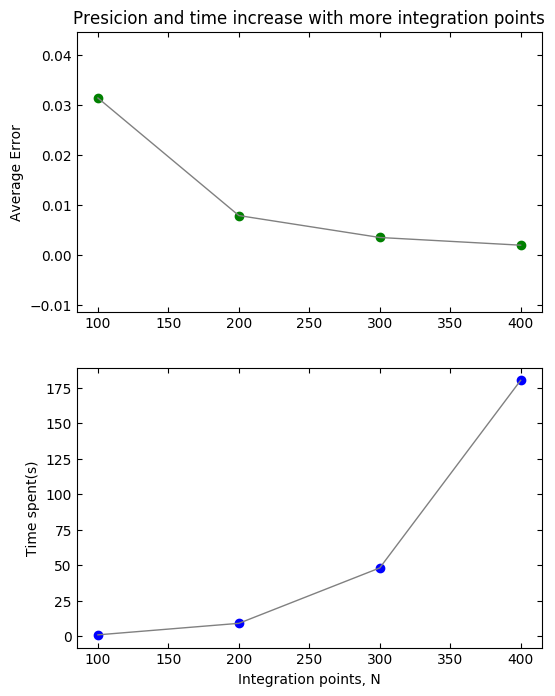
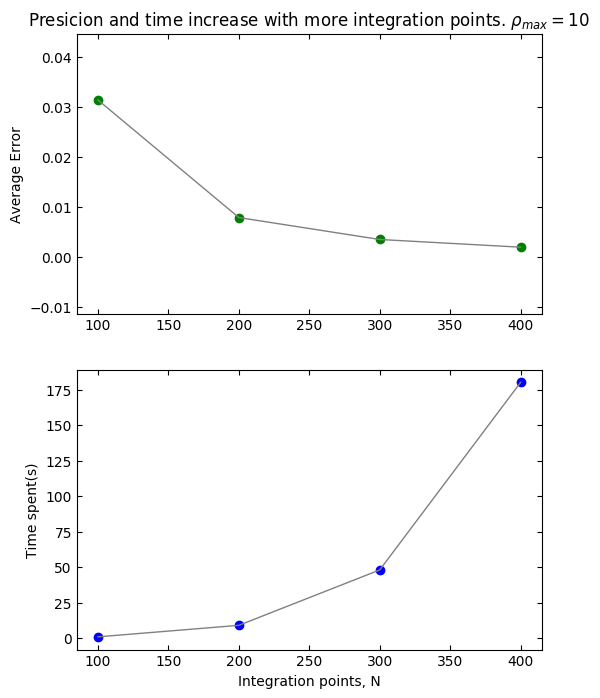
Read readme for how to use code. main.cpp is for testing different N and main_rho.cpp is for testing different approximations of infinity.

diff --git a/Code/main_rho.cpp b/Code/main_rho.cpp
@@ -1,0 +1,90 @@
+#include <armadillo>
+#include <cmath>
+#include <iostream>
+#include <fstream>
+
+using namespace std;
+using namespace arma;
+
+mat init(double Rho_N, int N);                //Takes Rho_N (approx infty) and integrations points N, returns tridiag mat.
+mat Jacobi_method(mat A, int N);              //Takes matrix to find eigvals and N, returns vector with eigvals.
+vec arma_eig(mat A);                          //Armadillos function for finding Eigenvalues, returns vector with eigvals.
+double averageError(vec jacobi_eigenvalues);  //Calculating average error of the four first eigenvalues
+void consoleout(int N, vec arma_eigenvalues, vec jacobi_eigenvalues, double t_arma, double t_jacobi, double Rho_N);
+
+ofstream ofile;
+
+int main() {
+  int i = 0;
+
+  //Writing to file for plotting
+  string filename = "Rho-VS-Error";
+  ofile.open(filename);
+
+  for (i = 3; i < 12; i++){
+
+    double Rho_N = i*1.0;                //Defining the approximation of infinity
+    int N = 200;                      //Defining number of integration points
+
+    mat A = init(Rho_N, N);             //Defining tridiagonal matrix
+
+    //Timing armadillo's eigenvalue solver
+    clock_t t0, t1;
+    t0 = clock();
+    vec arma_eigvals = arma_eig(A);     //Defining armadillos eigenvalues
+    t1 = clock();
+    double t_arma = (double (t1 - t0))/CLOCKS_PER_SEC;
+
+    //Timing jacobi's eigenvalue solver
+    t0 = clock();
+    vec eigvals = Jacobi_method(A,N);   //Defining jacobi's eigenvalues
+    t1 = clock();
+    double t_jacobi = (double (t1 - t0))/CLOCKS_PER_SEC;
+
+    eigvals = sort(eigvals);                                  //Sorting eigenvalues from Jacobi's method
+    int eigval;
+    vec arma_eigenvalues(4); vec jacobi_eigenvalues(4);       //Declaring vectors for the four first elements
+
+    for (eigval = 0 ; eigval < 4; eigval++){                  //Filling the vectors with the eigenvalues
+      arma_eigenvalues(eigval) = arma_eigvals(eigval);
+      jacobi_eigenvalues(eigval) = eigvals(eigval);
+    }
+
+    //Printing to console
+    consoleout(N, arma_eigenvalues, jacobi_eigenvalues, t_arma, t_jacobi, Rho_N);
+
+    //Writing N as X-value and average error to Y-value for python plotting with plotter.py
+    ofile << Rho_N << " " << averageError(jacobi_eigenvalues) << " " << t_jacobi << endl;
+
+  }
+
+  ofile.close();
+
+  //Calling python for plotting
+  system("python3 plotter_rho.py Rho-VS-Error");
+
+  return 0;
+}
+
+double averageError(vec jacobi_eigenvalues) { //Calculates the average of the error for the first four eigenvalues.
+  vec correctAnswer = {3.0, 7.0, 11.0, 15.0};
+  vec diff = abs(correctAnswer-jacobi_eigenvalues);
+  double avgDiff = accu(diff) / diff.n_elem;
+  return avgDiff;
+}
+
+
+
+void consoleout(int N, vec arma_eigenvalues, vec jacobi_eigenvalues, double t_arma, double t_jacobi, double Rho_N) {
+  //Printing to console
+  cout << "Integration points, N: " << N << endl;
+  cout << "Rho/infinity value used: " << Rho_N << endl;
+  cout << "Eigenvalues from arma solver: " << endl;
+  cout << arma_eigenvalues << endl;
+  cout << "Time spent on arma solver: " << t_arma << "s" << endl;
+  cout << "-----------------------------------" << endl;
+  cout << "Eigenvalues from our Jacobi solver: " << endl;
+  cout << jacobi_eigenvalues << endl;
+  cout << "Time spent on our solver: " << t_jacobi << "s" << endl;
+  cout << "===================================" << endl;
+}

diff --git a/Code/plotter_rho.py b/Code/plotter_rho.py
@@ -1,0 +1,39 @@
+import matplotlib.pyplot as plt
+import numpy as np
+import sys
+
+f = open(sys.argv[1],"r")
+lines=f.readlines()
+x = np.zeros(len(lines))
+y = np.zeros_like(x)
+y1 = np.zeros_like(x)
+i=0
+for line in lines:
+    x[i] = float(line.split()[0])
+    y[i] = float(line.split()[1])
+    y1[i] = float(line.split()[2])
+    i += 1
+
+plt.figure(figsize=(6,8))
+plt.subplot(211)
+plt.scatter(x,y, label = "Average error of Eigenvalues", color = 'g')
+plt.plot(x,y,color='gray', linewidth=1)
+plt.ylabel("Average Error")
+#plt.xlabel("Integration points, N")
+plt.tick_params(direction='in', top = 'true', right = 'true')
+plt.title(r"Presicion and time varies with $\rho_{max}$. Integration points = 200")
+#plt.yscale('log')
+#plt.legend()
+
+plt.subplot(212)
+plt.scatter(x,y1, label = "Time spent", color = 'b')
+plt.plot(x,y1,color='gray', linewidth = 1)
+plt.ylabel("Time spent(s)")
+plt.xlabel(r"$\rho_{max}$")
+plt.tick_params(direction='in', top = 'true', right = 'true')
+#plt.legend()
+
+
+#plt.suptitle("Presicion and time increase with more integration points")
+plt.savefig("PLOT_rho.png", bbox_inches='tight')
+plt.show()

diff --git a/Code/plotter.py b/Code/plotter.py
@@ -21,7 +21,7 @@ plt.plot(x,y,color='gray', linewidth=1)
 plt.ylabel("Average Error")
 #plt.xlabel("Integration points, N")
 plt.tick_params(direction='in', top = 'true', right = 'true')
-plt.title("Presicion and time increase with more integration points")
+plt.title(r"Presicion and time increase with more integration points. $ \rho_{max} = 10$")
 #plt.yscale('log')
 #plt.legend()
 

diff --git a/Code/README.md b/Code/README.md
@@ -1,0 +1,6 @@
+## Testing effect of Iteration points and infinity approximation
+
+You can choose either to test how different approximations of $\rho_{max}$ changes the time spent, and the error, or test how different number of integration points, N, changes time and error.
+
+To compile code for N-testing, edit the makefile to compile main.cpp.
+To compile code for $\rho_{max}$-testing, edit the makefile to compile main_rho.cpp
